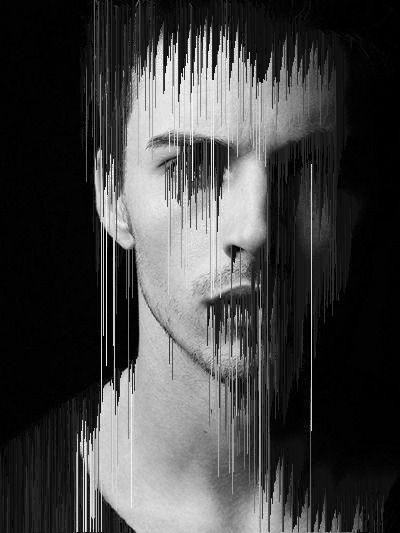
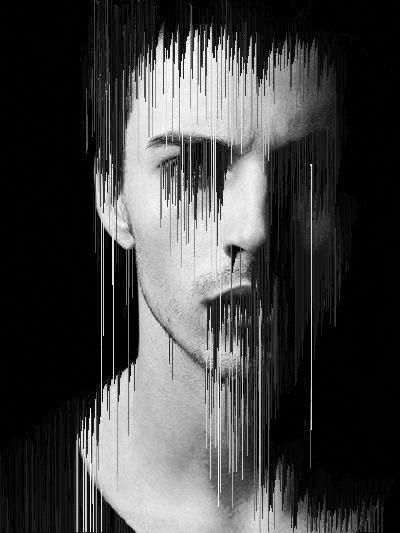
added two new options
added Mystify and pastel to change effects of photo

diff --git a/Main.java b/Main.java
@@ -26,7 +26,7 @@ public class Main extends Application {
     static int minTolerance = 0;
     static int lightTolerance = 200;
     static int darkTolerance = 30;
-    static int contrastTolerance = 5;
+    static int contrastTolerance = 2;
     static boolean first = true;
 
     public void start(Stage stage) throws Exception { // jpg/jpeg files are not recommended due to compression!
@@ -109,6 +109,16 @@ public class Main extends Application {
                 iv1.setImage(increaseContrast("new-" + name));
             });
 
+            Button mystifyButton = new Button("Blue/Green");
+            mystifyButton.setOnAction((event) -> {
+                iv1.setImage(mystify("new-" + name));
+            });
+
+            Button pastelButton = new Button("Pastel color");
+            pastelButton.setOnAction((event) -> {
+                iv1.setImage(pastel("new-" + name));
+            });
+
             Button set = new Button("Enter");
             set.setOnAction((event) -> {
                 if(group.getSelectedToggle().getUserData().toString().equals("true"))
@@ -184,6 +194,8 @@ public class Main extends Application {
             buttons.getChildren().add(richDark);
             buttons.getChildren().add(richWhite);
             buttons.getChildren().add(contrast);
+            buttons.getChildren().add(mystifyButton);
+            buttons.getChildren().add(pastelButton);
 
             VBox vbox = new VBox(10);
             vbox.getChildren().add(buttons);
@@ -428,6 +440,56 @@ public class Main extends Application {
                             (int) temp.getRed() - 10 >= 1 ? (int) temp.getRed() - 10 : (int) temp.getRed(),
                             (int) temp.getGreen() - 10 >= 1 ? (int) temp.getGreen() - 10 : (int) temp.getGreen(),
                             (int) temp.getBlue() - 10 >= 1 ? (int) temp.getBlue() - 10 : (int) temp.getBlue());
+                    img[i][x] = bright.getRGB();
+                    c++;
+                }
+            }
+            return convertToFxImage(convertAndSaveImage(img));
+        } catch (Exception e) {
+            e.printStackTrace();
+        }
+        return null;
+    }
+
+    public static Image mystify(String imgName) {
+        try {
+            BufferedImage imgBuf = ImageIO.read(new File(System.getProperty("user.dir") + "\\Edited-Photos\\" + imgName + extension));
+            int[] RGBarray = imgBuf.getRGB(0, 0, w, h, null, 0, w);
+            int[][] img = new int[h][w];
+            int c = 0;
+
+            for (int i = 0; i < h; i++) {
+                for (int x = 0; x < w; x++) {
+                    Color temp = new Color(RGBarray[c]);
+                    Color bright = new Color(
+                            (int) temp.getRed() - 10 >= 1 ? (int) temp.getRed() - 10 : (int) temp.getRed(),
+                            (int) temp.getGreen() + 5 <= 255 ? (int) temp.getGreen() + 5 : (int) temp.getGreen(),
+                            (int) temp.getBlue() + 5 <= 255 ? (int) temp.getBlue() + 5 : (int) temp.getBlue());
+                    img[i][x] = bright.getRGB();
+                    c++;
+                }
+            }
+            return convertToFxImage(convertAndSaveImage(img));
+        } catch (Exception e) {
+            e.printStackTrace();
+        }
+        return null;
+    }
+
+    public static Image pastel(String imgName) {
+        try {
+            BufferedImage imgBuf = ImageIO.read(new File(System.getProperty("user.dir") + "\\Edited-Photos\\" + imgName + extension));
+            int[] RGBarray = imgBuf.getRGB(0, 0, w, h, null, 0, w);
+            int[][] img = new int[h][w];
+            int c = 0;
+
+            for (int i = 0; i < h; i++) {
+                for (int x = 0; x < w; x++) {
+                    Color temp = new Color(RGBarray[c]);
+                    Color bright = new Color(
+                            (int) temp.getRed() -5 >= 0 ? (int) temp.getRed() -5 : (int) temp.getRed(),
+                            (int) temp.getGreen() - 10 >= 0 ? (int) temp.getGreen() - 10 : (int) temp.getGreen(),
+                            (int) temp.getBlue() - 10 >= 0 ? (int) temp.getBlue() - 10 : (int) temp.getBlue());
                     img[i][x] = bright.getRGB();
                     c++;
                 }

diff --git a/Logic.java b/Logic.java
@@ -1,8 +1,4 @@
 import java.awt.image.BufferedImage;
-import java.io.File;
-import java.io.IOException;
-import java.awt.*;
-import javax.imageio.ImageIO;
 
 
 
